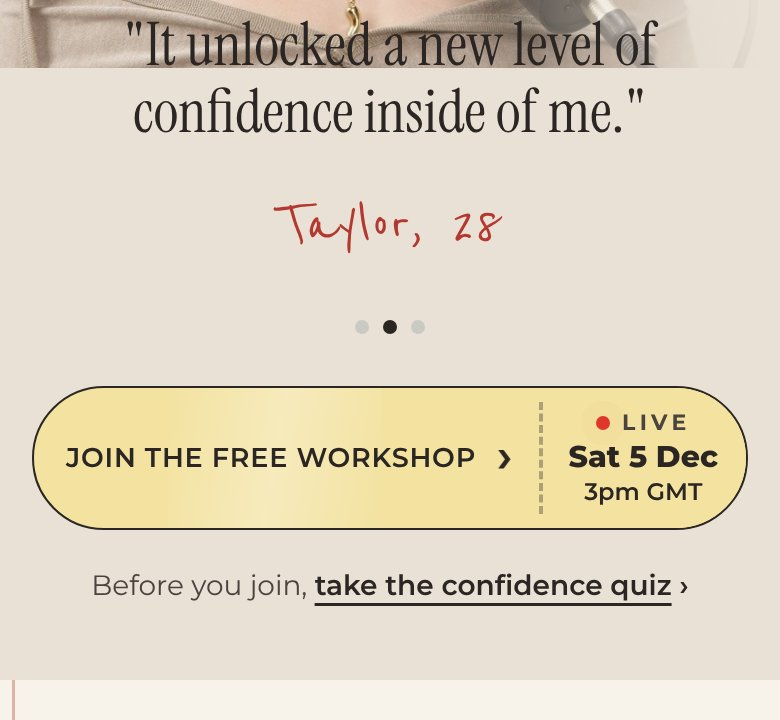
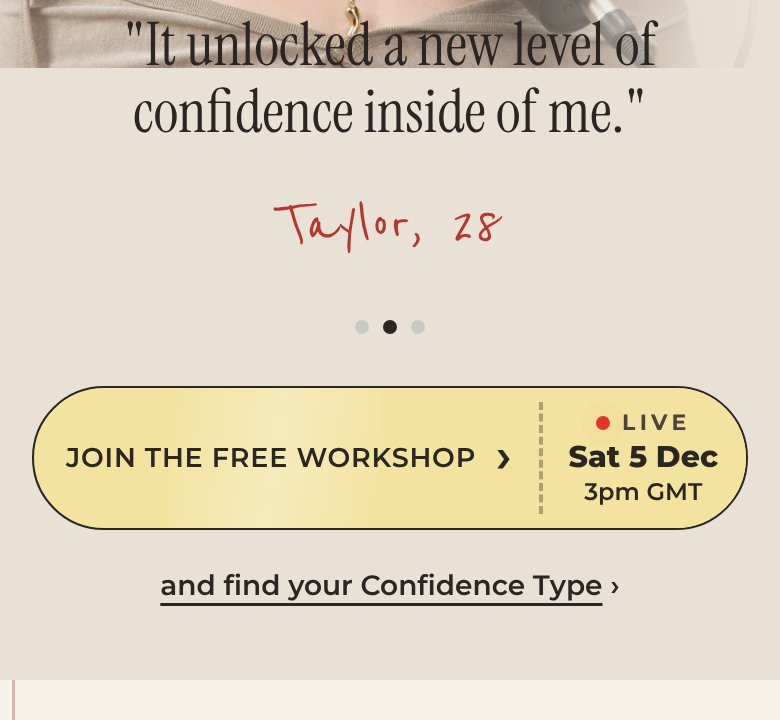
Narrow quiz link options to three, all saying 'and find your Confidence Type'
Claude-Session: https://claude.ai/code/session_01CfTJkvUViTNRnxKTGyhTog

Changed region(s): [[0.1231, 0.7944, 0.8615, 0.8556]]

diff --git a/quiz-link-options/index.html b/quiz-link-options/index.html
@@ -28,14 +28,11 @@ figcaption p{margin:6px 0 0;font-size:15px;color:var(--ink-2)}
 <body>
 <div class="wrap">
 <h1>Quiz link options <span>☆</span></h1>
-<p class="lede">Six ways to add a quiet, clickable quiz link under "Join the free workshop" at the top of the Rebirth site. Each one is worded so she does both, the workshop and the quiz. Shown as they look on a phone.</p>
+<p class="lede">Three ways to add "and find your Confidence Type" under the workshop button. Each one links to the quiz. Shown as they look on a phone.</p>
 <div class="grid">
-<figure><img src="option-1.jpg" alt="Option 1"><figcaption><h2><b>1</b>Text link with arrow</h2><p>"Before you join, take the confidence quiz". Underlined with an arrow, so it reads as a link. The most subtle option.</p></figcaption></figure>
-<figure><img src="option-2.jpg" alt="Option 2"><figcaption><h2><b>2</b>Handwritten pen note</h2><p>Red pen and a hand-drawn arrow: "and find your Confidence Type". Matches the journal feel best.</p></figcaption></figure>
-<figure><img src="option-3.jpg" alt="Option 3"><figcaption><h2><b>3</b>Butter highlighter</h2><p>"Plus, take your confidence quiz" with a highlighter swipe and underline. Ties into the brand highlighter.</p></figcaption></figure>
-<figure><img src="option-4.jpg" alt="Option 4"><figcaption><h2><b>4</b>Small button</h2><p>A small butter button. The most obviously tappable on a phone, but slightly less subtle.</p></figcaption></figure>
-<figure><img src="option-5.jpg" alt="Option 5"><figcaption><h2><b>5</b>"while you wait" divider</h2><p>A divider that says "while you wait", so it reads as something to do before the workshop, not instead of it.</p></figcaption></figure>
-<figure><img src="option-6.jpg" alt="Option 6"><figcaption><h2><b>6</b>Star and circled word</h2><p>"Now take your confidence quiz", with the brand star, "quiz" circled in red pen and an arrow.</p></figcaption></figure>
+<figure><img src="option-1.jpg" alt="Option 1"><figcaption><h2><b>1</b>Clean text link</h2><p>Underlined with a small arrow. The most subtle of the three.</p></figcaption></figure>
+<figure><img src="option-2.jpg" alt="Option 2"><figcaption><h2><b>2</b>Handwritten pen note</h2><p>Red pen, a hand-drawn arrow pointing up at the workshop button. Matches the journal feel best.</p></figcaption></figure>
+<figure><img src="option-3.jpg" alt="Option 3"><figcaption><h2><b>3</b>Butter highlighter</h2><p>A highlighter swipe and underline, plus "(2 mins)" so it feels quick.</p></figcaption></figure>
 </div>
 </div>
 </body>
